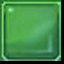
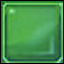
Add Windows 8 classic theme + Improved themes

diff --git a/UTBM-Minesweeper/src/fr/utbm/lp24/minesweeper/AppearanceWindow.java b/UTBM-Minesweeper/src/fr/utbm/lp24/minesweeper/AppearanceWindow.java
@@ -23,6 +23,7 @@ public class AppearanceWindow extends JDialog {
 	private final JRadioButton rdbtnWin7Classic;
 	private final JRadioButton rdbtnWin7Flower;
 	private final JRadioButton rdbtnWin98Classic;
+	private final JRadioButton rdbtnWin8Classic;
 
 
 	/**
@@ -33,7 +34,7 @@ public class AppearanceWindow extends JDialog {
 		setDefaultCloseOperation(JDialog.DISPOSE_ON_CLOSE);
 		setResizable(false);
 		setTitle("Change Appearance");
-		setBounds(100, 100, 420, 255);
+		setBounds(100, 100, 550, 255);
 		getContentPane().setLayout(new BorderLayout());
 		contentPanel.setBorder(new EmptyBorder(5, 5, 5, 5));
 		getContentPane().add(contentPanel, BorderLayout.CENTER);
@@ -76,6 +77,11 @@ public class AppearanceWindow extends JDialog {
 		buttonGroup.add(rdbtnWin98Classic);
 		rdbtnWin98Classic.setBounds(274, 139, 125, 23);
 		contentPanel.add(rdbtnWin98Classic);
+		
+		rdbtnWin8Classic = new JRadioButton("Windows 8 Classic");
+		buttonGroup.add(rdbtnWin8Classic);
+		rdbtnWin8Classic.setBounds(408, 139, 125, 23);
+		contentPanel.add(rdbtnWin8Classic);
 
 
 		appearanceWindowInit();
@@ -103,6 +109,8 @@ public class AppearanceWindow extends JDialog {
 			rdbtnWin7Flower.setSelected(true);
 		} else if( theme.equals("win98_classic") ){
 			rdbtnWin98Classic.setSelected(true);
+		} else if( theme.equals("win8_classic") ){
+			rdbtnWin8Classic.setSelected(true);
 		}
 
 	}
@@ -121,6 +129,8 @@ public class AppearanceWindow extends JDialog {
 			theme = "win7_flower";
 		} else if( rdbtnWin98Classic.isSelected() ){
 			theme = "win98_classic";
+		} else if( rdbtnWin8Classic.isSelected() ){
+			theme = "win8_classic";
 		}
 
 		userPreferences.setPref("theme", theme);
